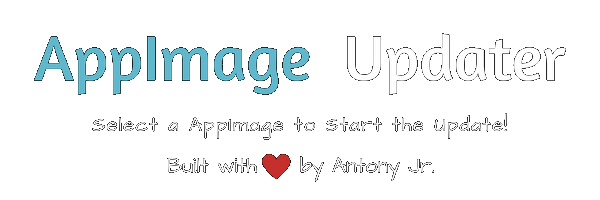
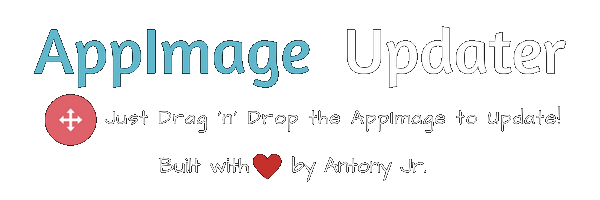
Fix: https://github.com/antony-jr/AppImageUpdater/issues/4

diff --git a/AppImageUpdater.cpp b/AppImageUpdater.cpp
@@ -10,6 +10,7 @@ AppImageUpdater::AppImageUpdater()
     Ui = new Ui::AppImageUpdater;
     Bridge = new AIUpdaterBridge(this);
     Bridge->doDebug(true);
+    setAcceptDrops(true);
 
     Ui->setupUi(this); // Setup the main gui UI.
 
@@ -36,24 +37,9 @@ AppImageUpdater::AppImageUpdater()
     connect(Ui->exitOrCancelBtn, &QPushButton::pressed, this, &AppImageUpdater::exit);
 
     // Connect buttons
-    connect(Ui->browseAppImage, &QPushButton::pressed, this,
-    [&]() {
-        QString filename;
-        filename = QFileDialog::getOpenFileName(this, tr("Select AppImage"), QDir::homePath(), tr("AppImages (*.AppImage *.appimage)") , 0,QFileDialog::DontUseNativeDialog );
-
-        if(filename.isEmpty()) {
-            return;
-        }
-
-        Ui->loader_movie->start();
-        Bridge->setAppImageUpdateInformation(filename);
-
-        Ui->MainStack->setCurrentIndex(LOADING);
-        return;
-    });
-
     connect(Ui->mainBtn, &QPushButton::pressed, this,
     [&]() {
+        setAcceptDrops(true);
         Ui->MainStack->setCurrentIndex(HOME);
         Ui->mainBtn->setEnabled(false);
         return;
@@ -63,6 +49,32 @@ AppImageUpdater::AppImageUpdater()
 
 /* ---- */
 
+/*
+ * Drag 'n' Drop Functionality
+ * ----------------------------
+ *  This is achived by overloading QMainWindow Drag event!
+*/
+
+void AppImageUpdater::dragEnterEvent(QDragEnterEvent *e)
+{
+    if (e->mimeData()->hasUrls()) {
+        e->acceptProposedAction();
+    }
+    return;
+}
+
+void AppImageUpdater::dropEvent(QDropEvent *e)
+{
+    foreach (const QUrl &url, e->mimeData()->urls()) {
+        QString fileName = url.toLocalFile();
+        AppImages.enqueue(fileName);
+        qDebug() << "AppImageUpdater:: Dropped file :" << fileName;
+    }
+    checkForUpdates(AppImages.dequeue());
+    return;
+}
+
+/* ---- */
 
 // Public Slots
 
@@ -74,6 +86,7 @@ void AppImageUpdater::checkForUpdates(void)
 
 void AppImageUpdater::checkForUpdates(const QString &filename)
 {
+    setAcceptDrops(false);
     Ui->loader_movie->start();
     Bridge->setAppImageUpdateInformation(filename);
     Ui->MainStack->setCurrentIndex(LOADING);
@@ -103,6 +116,7 @@ void AppImageUpdater::updateFinished(QString AppImage, QString SHA1)
 void AppImageUpdater::noUpdatesAvailable(QString AppImage, QString oldSHA1)
 {
     if(selfUpdate) {
+        setAcceptDrops(true);
         Ui->mainBtn->setEnabled(false);
         Ui->loader_movie->stop();
         Ui->MainStack->setCurrentIndex(HOME);
@@ -118,12 +132,14 @@ void AppImageUpdater::noUpdatesAvailable(QString AppImage, QString oldSHA1)
 
 void AppImageUpdater::updatesAvailable(QString AppImage, QString newSHA1)
 {
+    selfUpdate = false; // just in case
     QMessageBox::StandardButton resBtn = QMessageBox::question( this, "AppImage Updater",
                                          "A New Version of "+QFileInfo(AppImage).fileName() +" is available , Do you want to Update ?\n",
                                          QMessageBox::Cancel | QMessageBox::No | QMessageBox::Yes,
                                          QMessageBox::Yes);
 
     if (resBtn != QMessageBox::Yes) {
+        setAcceptDrops(true);
         Ui->loader_movie->stop();
         Ui->MainStack->setCurrentIndex(HOME);
         return;
@@ -210,6 +226,7 @@ void AppImageUpdater::cancel(void)
         Ui->exitOrCancelBtn->setText("Exit");
         connect(Ui->exitOrCancelBtn, &QPushButton::pressed, this, &AppImageUpdater::exit);
         disconnect(Ui->exitOrCancelBtn, &QPushButton::pressed, this, &AppImageUpdater::cancel);
+        setAcceptDrops(true);
         Ui->loader_movie->stop();
         Ui->MainStack->setCurrentIndex(HOME);
         return;

diff --git a/AppImageUpdater.hpp b/AppImageUpdater.hpp
@@ -5,6 +5,10 @@
 #include <QtCore>
 #include <QtGlobal>
 #include <QMovie>
+#include <QDrag>
+#include <QDragEnterEvent>
+#include <QDropEvent>
+#include <QQueue>
 #include <QMessageBox>
 #include <QtWidgets/QAction>
 #include <QtWidgets/QApplication>
@@ -22,7 +26,6 @@
 #include <QtWidgets/QTextEdit>
 #include <QtWidgets/QWidget>
 #include <AIUpdaterBridge.hpp>
-#include <QFileDialog>
 
 QT_BEGIN_NAMESPACE
 
@@ -44,7 +47,6 @@ public:
     QLabel *VersionInfo;
     QLabel *HomeLogo;
     QLabel *AppInfo;
-    QPushButton *browseAppImage;
     QWidget *Loading;
     QGridLayout *gridLayout_4;
     QGridLayout *gridLayout_2;
@@ -162,22 +164,6 @@ public:
         AppInfo->setAlignment(Qt::AlignCenter);
 
         HomeGrid->addWidget(AppInfo, 5, 0, 1, 3, Qt::AlignHCenter);
-
-        browseAppImage = new QPushButton(Home);
-        browseAppImage->setObjectName(QStringLiteral("browseAppImage"));
-        QFont font1;
-        font1.setBold(true);
-        font1.setWeight(75);
-        browseAppImage->setFont(font1);
-        browseAppImage->setAutoFillBackground(false);
-        browseAppImage->setStyleSheet(QLatin1String("background-color: rgb(255, 61, 55);\n"
-                                      "color: white;"));
-        QIcon icon3;
-        icon3.addFile(QStringLiteral(":/resources/browse.png"), QSize(), QIcon::Normal, QIcon::Off);
-        browseAppImage->setIcon(icon3);
-
-        HomeGrid->addWidget(browseAppImage, 4, 1, 1, 1);
-
 
         gridLayout_3->addLayout(HomeGrid, 0, 1, 1, 1);
 
@@ -344,7 +330,6 @@ public:
         VersionInfo->setText(QString());
         HomeLogo->setText(QString());
         AppInfo->setText(QString());
-        browseAppImage->setText(QApplication::translate("AppImageUpdater", "Browse for AppImage", nullptr));
         AppImagePath->setText(QString());
         AppImageLogo->setText(QString());
         sckFoot->setText(QString());
@@ -386,7 +371,6 @@ private slots:
     void handleError(QString, short);
     void cancel(void);
     void exit(void);
-
 signals:
     void safeToCloseApplication();
 private:
@@ -403,6 +387,10 @@ private:
     bool selfUpdate = false;
     Ui::AppImageUpdater *Ui;
     AIUpdaterBridge *Bridge;
+    QQueue<QString> AppImages;
+protected:
+    void dragEnterEvent(QDragEnterEvent *);
+    void dropEvent(QDropEvent *);
 };
 
 QT_END_NAMESPACE
